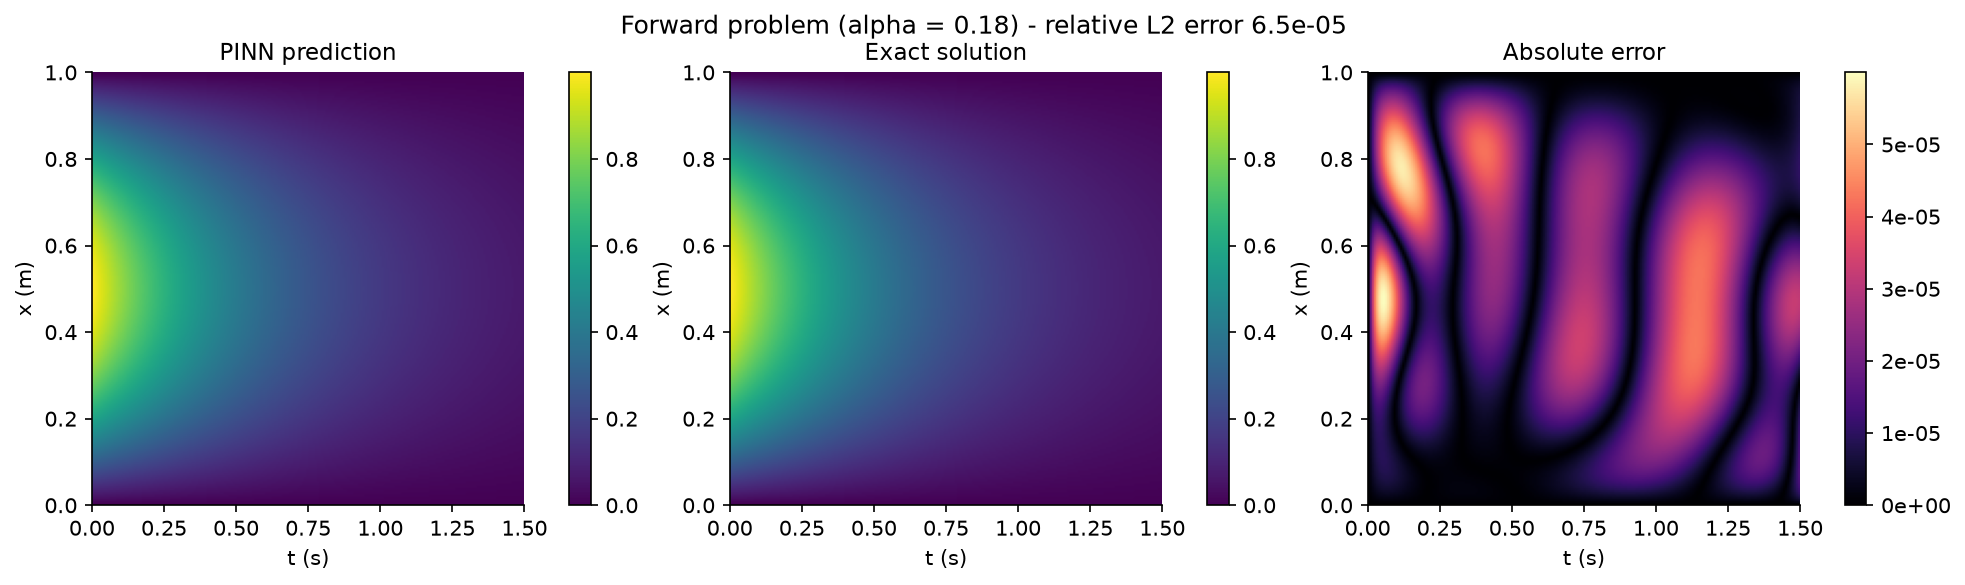
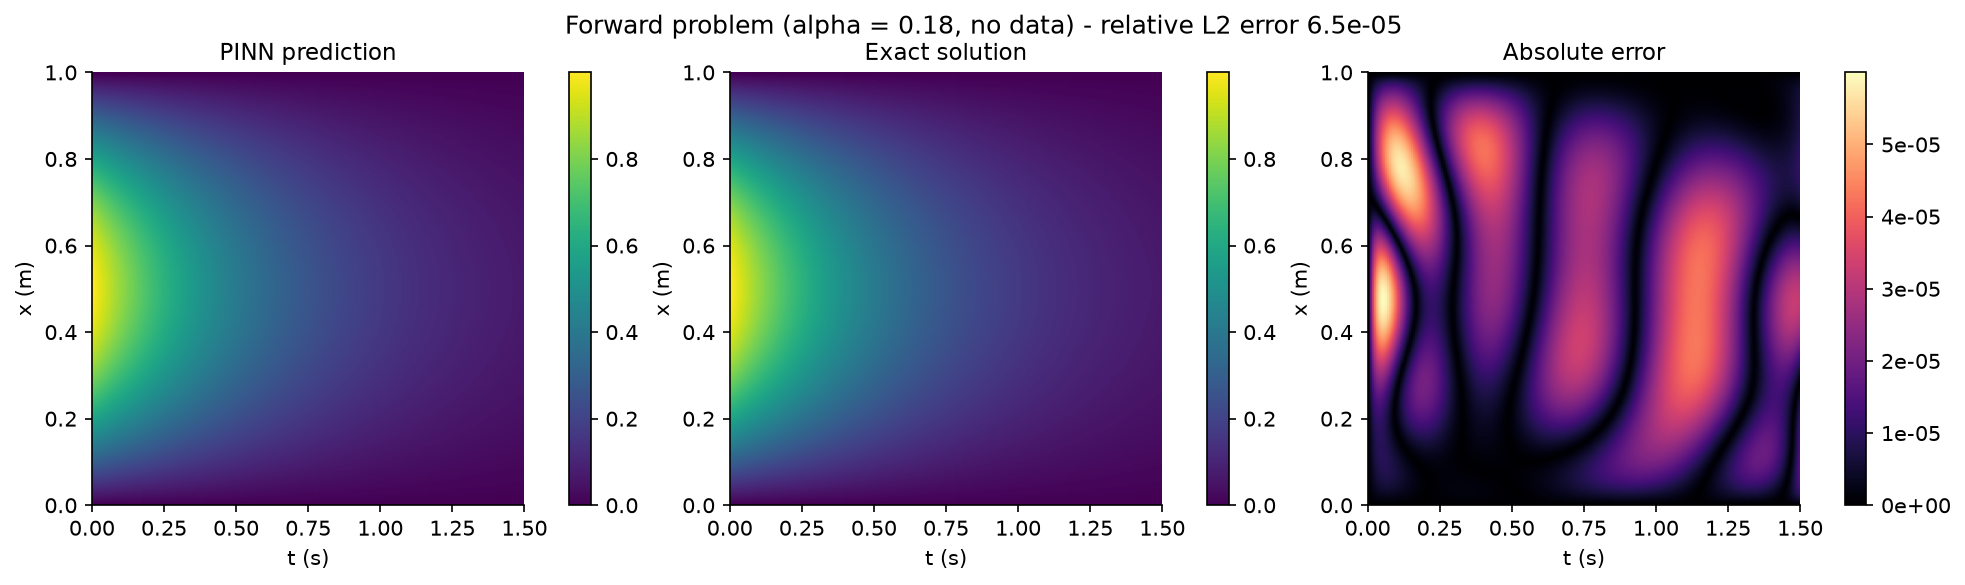
Add a "forward problem with data" case, fix line/point colour mismatch
- scripts/forward.py: new profile_observations() samples noisy points
  at the same times as the plotted profiles (0.15/0.4/0.8/1.5 s), so
  data visually sits near the curve it belongs to; runs a second
  training pass with alpha fixed + this data added to the loss ->
  figures/forward_data_training.gif.
- animate.py training_gif: colour each data point like its closest
  profile line by matching index, instead of a value-based colormap
  that didn't match the (unevenly spaced) rank-based line colours.
  Loss panel now plots total/physics/data loss separately (with
  legend) when data is present, and labels "total loss = physics
  loss" when it isn't; legend moved to upper right with more head-
  room to avoid overlapping the curves.
- README: new Fig 1b (forward problem with data), explaining the
  synthetic/artificial nature of the measurements, why there's no
  data point on the t=0 curve, and why total/data loss overlap once
  training converges.

Changed region(s): [[0.2794, 0.0308, 0.714, 0.0615]]

diff --git a/scripts/forward.py b/scripts/forward.py
@@ -1,4 +1,5 @@
-"""Forward problem: alpha is known, the PINN reconstructs T(x, t) from physics only.
+"""Forward problem: alpha is known, first solved from physics alone, then with a
+handful of noisy temperature measurements added to the loss.
 
     python scripts/forward.py
 """
@@ -14,7 +15,7 @@ import jax  # noqa: E402
 import jax.numpy as jnp  # noqa: E402
 import numpy as np  # noqa: E402
 
-from pinn_heat.animate import ProfileRecorder, training_gif  # noqa: E402
+from pinn_heat.animate import PROFILE_TIMES, ProfileRecorder, training_gif  # noqa: E402
 from pinn_heat.pinn import snapshot_iterations  # noqa: E402
 from pinn_heat import collocation_points, exact_solution, init_mlp, make_loss, predict, train_lbfgs  # noqa: E402
 from pinn_heat.plotting import BLUE, field_panels, plt  # noqa: E402
@@ -22,6 +23,8 @@ from pinn_heat.plotting import BLUE, field_panels, plt  # noqa: E402
 p = argparse.ArgumentParser()
 p.add_argument("--alpha", type=float, default=0.18)
 p.add_argument("--n_col", type=int, default=500)
+p.add_argument("--n_per_time", type=int, default=4)
+p.add_argument("--noise", type=float, default=0.15)
 p.add_argument("--width", type=int, default=16)
 p.add_argument("--depth", type=int, default=3)
 p.add_argument("--maxiter", type=int, default=3000)
@@ -29,34 +32,62 @@ p.add_argument("--seed", type=int, default=0)
 args = p.parse_args()
 
 L, T_MAX = 1.0, 1.5
-
-params = {"nn": init_mlp(jax.random.PRNGKey(args.seed), args.width, args.depth)}
-tx_col = collocation_points(args.n_col, T_MAX, L, seed=args.seed)
-loss = make_loss(tx_col, alpha_fixed=args.alpha, L=L)
-
-print(f"Forward problem | alpha = {args.alpha} | {args.n_col} collocation points")
-rec = ProfileRecorder(L)
-params, hist = train_lbfgs(loss, params, maxiter=args.maxiter, alpha_fixed=args.alpha,
-                           callback=rec, callback_iters=snapshot_iterations(args.maxiter))
-if rec.iters[-1] != len(hist["loss"]) - 1:
-    rec(len(hist["loss"]) - 1, params)
-
-# Evaluation on a 200 x 200 grid
-t = np.linspace(0, T_MAX, 200)
-x = np.linspace(0, L, 200)
-Tg, Xg = np.meshgrid(t, x, indexing="ij")
-T_pred = np.array(predict(params["nn"], jnp.array(Tg.ravel()), jnp.array(Xg.ravel()), L)).reshape(Tg.shape)
-T_true = exact_solution(Xg, Tg, args.alpha, L)
-rel_l2 = np.linalg.norm(T_pred - T_true) / np.linalg.norm(T_true)
-
-print(f"\n{len(hist['loss'])} L-BFGS iterations in {hist['time_s']:.1f} s")
-print(f"Final physics loss : {hist['loss'][-1]:.2e}")
-print(f"Relative L2 error  : {rel_l2:.2e}")
-print(f"Max absolute error : {np.abs(T_pred - T_true).max():.2e}")
-
 out = ROOT / "figures"
+
+
+def profile_observations(times, n_per_time, alpha, noise_level, L, seed):
+    """A few noisy measurements at each of the plotted profile times, so the data
+    points sit close to the very curves shown in the figure (rather than at
+    arbitrary times where no curve is drawn to compare them against).
+    """
+    rng = np.random.default_rng(seed)
+    ts, xs, T_obs, T_clean = [], [], [], []
+    for tk in times:
+        if tk == 0:
+            continue  # skip t=0: fixed sinusoidal IC, nothing to "measure"
+        x_k = rng.uniform(0.1 * L, 0.9 * L, n_per_time)
+        Tc_k = exact_solution(x_k, tk, alpha, L)
+        sigma = noise_level * np.std(Tc_k)
+        ts.append(np.full(n_per_time, tk))
+        xs.append(x_k)
+        T_clean.append(Tc_k)
+        T_obs.append(Tc_k + sigma * rng.standard_normal(n_per_time))
+    return {"t": np.concatenate(ts), "x": np.concatenate(xs), "T_obs": np.concatenate(T_obs),
+            "T_clean": np.concatenate(T_clean), "sigma": noise_level}
+
+
+def run(label, obs):
+    """Train with alpha fixed and known, physics only if obs is None else physics + data."""
+    params = {"nn": init_mlp(jax.random.PRNGKey(args.seed), args.width, args.depth)}
+    tx_col = collocation_points(args.n_col, T_MAX, L, seed=args.seed)
+    loss = make_loss(tx_col, obs=obs, alpha_fixed=args.alpha, L=L)
+
+    n_obs = 0 if obs is None else len(obs["t"])
+    print(f"Forward problem ({label}) | alpha = {args.alpha} | {args.n_col} collocation points, "
+          f"{n_obs} observations")
+    rec = ProfileRecorder(L)
+    params, hist = train_lbfgs(loss, params, maxiter=args.maxiter, alpha_fixed=args.alpha,
+                               callback=rec, callback_iters=snapshot_iterations(args.maxiter))
+    if rec.iters[-1] != len(hist["loss"]) - 1:
+        rec(len(hist["loss"]) - 1, params)
+
+    t = np.linspace(0, T_MAX, 200)
+    x = np.linspace(0, L, 200)
+    Tg, Xg = np.meshgrid(t, x, indexing="ij")
+    T_pred = np.array(predict(params["nn"], jnp.array(Tg.ravel()), jnp.array(Xg.ravel()), L)).reshape(Tg.shape)
+    T_true = exact_solution(Xg, Tg, args.alpha, L)
+    rel_l2 = np.linalg.norm(T_pred - T_true) / np.linalg.norm(T_true)
+
+    print(f"{len(hist['loss'])} L-BFGS iterations in {hist['time_s']:.1f} s")
+    print(f"Final loss         : {hist['loss'][-1]:.2e}")
+    print(f"Relative L2 error   : {rel_l2:.2e}\n")
+    return rec, hist, t, x, T_pred, T_true, rel_l2
+
+
+# Physics only, no data
+rec, hist, t, x, T_pred, T_true, rel_l2 = run("no data", obs=None)
 fig = field_panels(t, x, T_pred, T_true)
-fig.suptitle(f"Forward problem (alpha = {args.alpha}) - relative L2 error {rel_l2:.1e}", y=1.04)
+fig.suptitle(f"Forward problem (alpha = {args.alpha}, no data) - relative L2 error {rel_l2:.1e}", y=1.04)
 fig.savefig(out / "forward_field.png")
 
 fig, ax = plt.subplots(figsize=(5, 3.2))
@@ -64,4 +95,10 @@ ax.semilogy(hist["loss"], color=BLUE)
 ax.set(xlabel="training iteration", ylabel="loss (physics)", title="Forward problem - training")
 fig.savefig(out / "forward_loss.png")
 training_gif(out / "forward_training.gif", rec, args.alpha, hist, curve="loss")
+
+# Physics + a few noisy measurements, close to the profile curves shown in the figure
+obs = profile_observations(PROFILE_TIMES, args.n_per_time, args.alpha, args.noise, L, seed=args.seed)
+rec_d, hist_d, t_d, x_d, T_pred_d, T_true_d, rel_l2_d = run("with data", obs=obs)
+training_gif(out / "forward_data_training.gif", rec_d, args.alpha, hist_d, curve="loss", obs=obs)
+
 print(f"Figures saved to {out}")

diff --git a/pinn_heat/animate.py b/pinn_heat/animate.py
@@ -7,7 +7,7 @@ from matplotlib.animation import FuncAnimation, PillowWriter
 
 from .physics import exact_solution
 from .pinn import predict
-from .plotting import BLUE, ORANGE, plt
+from .plotting import BLUE, GREY, ORANGE, plt
 
 PROFILE_TIMES = np.array([0.0, 0.15, 0.4, 0.8, 1.5])
 
@@ -81,7 +81,11 @@ def training_gif(path, rec, alpha_true, history, curve="loss", obs=None, fps=10,
         ax1.plot(rec.x, T_exact[k], ls="--", lw=1.2, color="0.35")
         lines.append(ax1.plot(rec.x, rec.profiles[0][k], color=c, lw=2.2, label=f"t = {tk:g} s")[0])
     if obs is not None:
-        ax1.scatter(obs["x"], obs["T_obs"], c=obs["t"], cmap="viridis", vmin=0, vmax=rec.times.max() / 0.9,
+        # Colour each point like its closest profile line (by time), not by raw t value:
+        # rec.times is unevenly spaced, so a value-based colormap would not match the
+        # rank-based line colours above.
+        idx = np.argmin(np.abs(obs["t"][:, None] - rec.times[None, :]), axis=1)
+        ax1.scatter(obs["x"], obs["T_obs"], c=colors[idx],
                     s=22, edgecolors="black", linewidths=0.5, zorder=5, label="noisy data")
     ax1.plot([], [], ls="--", color="0.35", label="exact")
     ax1.set(xlabel="x (m)", ylabel="T(x, t)", ylim=(-0.15, 1.15), title="Temperature profiles")
@@ -89,19 +93,34 @@ def training_gif(path, rec, alpha_true, history, curve="loss", obs=None, fps=10,
 
     its = np.arange(1, len(history[curve]) + 1)
     y = history[curve]
-    (trace,) = ax2.plot([], [], color=BLUE, lw=2)
-    (dot,) = ax2.plot([], [], "o", color=BLUE)
     ax2.set_xscale("log")
     ax2.set_yscale("log")
     ax2.set_xlim(1, its[-1] * 1.2)
     if curve == "alpha":
+        (trace,) = ax2.plot([], [], color=BLUE, lw=2)
+        (dot,) = ax2.plot([], [], "o", color=BLUE)
+        traces = [(trace, dot, y)]
         ax2.axhline(alpha_true, color=ORANGE, ls="--", lw=1.5, label=f"true alpha = {alpha_true}")
         ax2.set(ylabel="alpha", title="Estimated diffusivity")
         ax2.set_ylim(min(y.min(), alpha_true) / 1.5, max(y.max(), alpha_true) * 1.5)
         ax2.legend(fontsize=8)
     else:
+        has_data = obs is not None
+        total_label = "total loss" if has_data else "total loss = physics loss"
+        (trace_total,) = ax2.plot([], [], color=BLUE, lw=2, label=total_label)
+        (dot_total,) = ax2.plot([], [], "o", color=BLUE)
+        traces = [(trace_total, dot_total, history["loss"])]
+        if has_data:
+            (trace_phys,) = ax2.plot([], [], color=GREY, lw=1.5, ls="--", label="physics loss")
+            (dot_phys,) = ax2.plot([], [], "o", color=GREY, ms=4)
+            (trace_data,) = ax2.plot([], [], color=ORANGE, lw=1.5, ls=":", label="data loss")
+            (dot_data,) = ax2.plot([], [], "o", color=ORANGE, ms=4)
+            traces += [(trace_phys, dot_phys, history["loss_phys"]), (trace_data, dot_data, history["loss_data"])]
+        all_y = np.concatenate([yy for *_, yy in traces])
+        all_y = all_y[np.isfinite(all_y) & (all_y > 0)]
         ax2.set(ylabel="loss", title="Training loss")
-        ax2.set_ylim(y.min() / 3, y.max() * 3)
+        ax2.set_ylim(all_y.min() / 3, all_y.max() * 8)
+        ax2.legend(fontsize=7, loc="upper right")
     ax2.set_xlabel("training iteration")
     label = ax2.text(0.03, 0.05, "", transform=ax2.transAxes, fontsize=9,
                      bbox=dict(boxstyle="round", fc="white", ec="0.8"))
@@ -112,13 +131,14 @@ def training_gif(path, rec, alpha_true, history, curve="loss", obs=None, fps=10,
         it = rec.iters[f]
         for k, ln in enumerate(lines):
             ln.set_ydata(rec.profiles[f][k])
-        trace.set_data(its[: it + 1], y[: it + 1])
-        dot.set_data([its[it]], [y[it]])
+        for trace, dot, yy in traces:
+            trace.set_data(its[: it + 1], yy[: it + 1])
+            dot.set_data([its[it]], [yy[it]])
         txt = f"iteration {it + 1}"
         if curve == "alpha":
             txt += f"\nalpha = {y[it]:.4f}"
         label.set_text(txt)
-        return lines + [trace, dot, label]
+        return lines + [t[0] for t in traces] + [t[1] for t in traces] + [label]
 
     FuncAnimation(fig, draw, frames=frames, blit=False).save(path, writer=PillowWriter(fps=fps))
     plt.close(fig)
@@ -143,7 +163,11 @@ def inverse_comparison_gif(path, rec, runs, alpha_true, obs, title="", fps=10, h
     for k, (tk, c) in enumerate(zip(rec.times, colors)):
         ax1.plot(rec.x, T_exact[k], ls="--", lw=1.2, color="0.35")
         lines.append(ax1.plot(rec.x, rec.profiles[0][k], color=c, lw=2.4, label=f"t = {tk:g}")[0])
-    ax1.scatter(obs["x"], obs["T_obs"], c=obs["t"], cmap="viridis", vmin=0, vmax=rec.times.max() / 0.75,
+    # Colour each point like its closest profile line (by time), not by raw t value:
+    # rec.times is unevenly spaced, so a value-based colormap would not match the
+    # rank-based line colours above.
+    idx = np.argmin(np.abs(obs["t"][:, None] - rec.times[None, :]), axis=1)
+    ax1.scatter(obs["x"], obs["T_obs"], c=colors[idx],
                 s=22, edgecolors="black", linewidths=0.5, zorder=5, label="noisy data (colour = time)")
     ax1.plot([], [], ls="--", color="0.35", label="exact")
     ax1.set(xlabel="x", ylabel="T(x, t)", ylim=(-0.2, 1.2), title=f"Temperature profiles ({runs[-1]['label']})")

diff --git a/README.md b/README.md
@@ -45,7 +45,9 @@ The exact solution is 𝑻(𝒙,𝒕) = 𝒔𝒊𝒏(𝝅𝒙/𝑳) × 𝒆<sup>
 
 ## Forward problem
 
-Here, $\alpha$ is known and there is no data at all: the goal is simply to check that the PINN can reconstruct $T(x,t)$ from the physics alone, by minimizing the PDE residual, before moving on to the harder inverse problem.
+In the forward problem, the thermal diffusivity ($\alpha$), the initial condition, and the boundary conditions are known. The goal is to reconstruct the temperature field ($T(x,t)$). We first train the PINN using the heat equation and the prescribed conditions alone, then examine the effect of adding temperature measurements. In both cases, we compare its predictions with the analytical solution.
+
+For this particular problem, a PINN has limited practical value because the solution is already known analytically. PINNs may be more useful for problems without an analytical solution, such as complex flows governed by the Navier–Stokes equations, although established numerical solvers are also effective for many such forward problems. Here, the forward cases mainly serve as methodological tests before moving to the inverse problem, where $\alpha$ must be estimated from measurements.
 
 <p align="center">
   <img src="figures/forward_training.gif" width="95%">
@@ -53,7 +55,11 @@ Here, $\alpha$ is known and there is no data at all: the goal is simply to check
 
 **Fig 1:** *Forward problem.* With \(\alpha=0.18\) known, the PINN approximates the solution of the 1D heat equation using the governing equation and the initial and boundary conditions, without temperature measurements. The predicted temperature profiles are compared with the analytical solution at several times (dashed lines). The right panel shows the evolution training loss.
 
-**Limitations.** Solving the forward problem here has little practical interest on its own: the exact solution is already known analytically, so a PINN reconstructing it brings nothing new. PINNs become genuinely useful for equations with no known exact solution — but even there, classical numerical solvers (finite difference, finite element) already solve most such PDEs very quickly. For now, PINNs offer no major advantage for a plain forward problem like this one; any future edge will likely come from making the training itself more efficient.
+<p align="center">
+  <img src="figures/forward_data_training.gif" width="95%">
+</p>
+
+**Fig 1b:** *Forward problem, with data.* Same setup as Fig 1, but a handful of synthetic, artificially noised temperature measurements (dots, coloured to match their closest profile time) are now added to the loss alongside the physics residual. These points are not real experimental data: they are generated by adding noise to the analytical solution, purely to illustrate the effect of including measurements. There is no data point on the $t=0$ (purple) curve: it is the fixed initial condition, not something to measure. The right panel separates the total, physics-only, and data-only components of the loss; total and data loss overlap once training converges, since the physics loss becomes negligible compared to the data loss (which plateaus at the noise floor).
 
 ## Inverse problem
 
